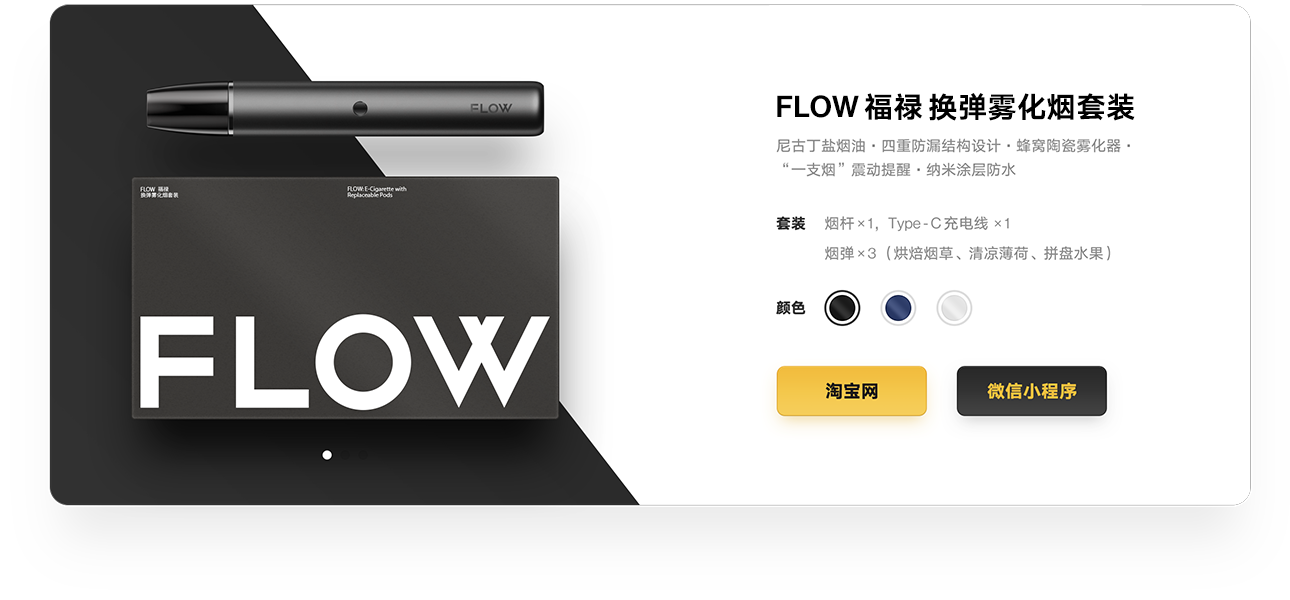
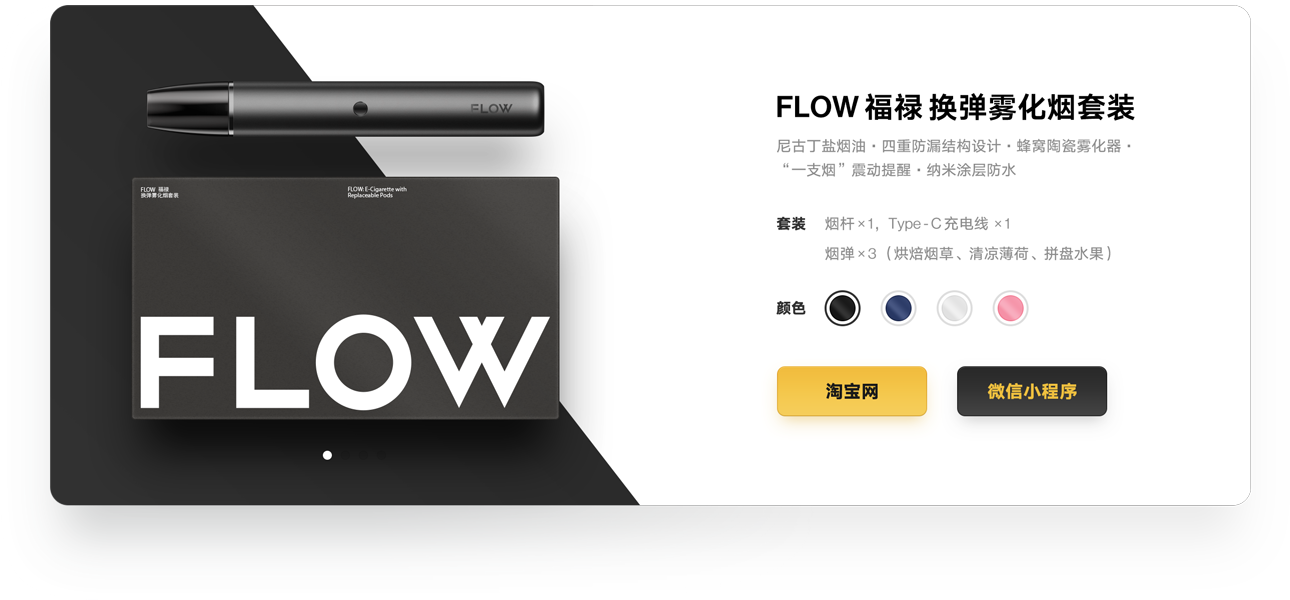
update: specs & item button link.

diff --git a/pages/shop.vue b/pages/shop.vue
@@ -3,7 +3,7 @@
         <div class="shop-banner-container">
             <div class="shop-banner">
                 <div class="shop-banner-btn">
-                    <a class="btn-1" target="_blank" href="https://item.taobao.com/item.htm?spm=a1z10.1-c-s.w4004-21283948660.2.4bb57afaMLmV8H&id=586143386583"></a>
+                    <a class="btn-1" target="_blank" href="https://item.taobao.com/item.htm?spm=a2oq0.12575281.0.0.25911deblYfbnz&ft=t&id=590862990609"></a>
                     <a class="btn-2" @click="showQRCode('qrCode1', $event)"></a>
                 </div>
                 <div class="qr-code" :class="{'qr-code-anim': qrcodeName == 'qrCode1'}"></div>
@@ -13,12 +13,13 @@
             <a class="blue-btn" @click="changeColor('blue')"></a>
             <a class="black-btn" @click="changeColor('black')"></a>
             <a class="white-btn" @click="changeColor('white')"></a>
-            <a class="taobao-btn" target="_blank" href="https://item.taobao.com/item.htm?spm=a1z10.1-c-s.w4004-21283948660.2.4bb57afaMLmV8H&id=586143386583"></a>
+            <a class="pink-btn" @click="changeColor('pink')"></a>
+            <a class="taobao-btn" target="_blank" href="https://item.taobao.com/item.htm?spm=a2oq0.12575281.0.0.25911deblYfbnz&ft=t&id=590862990609"></a>
             <a class="mini-program-btn" @click="showQRCode('qrCode2', $event)"></a>
             <div class="qr-code" :class="{'qr-code-anim': qrcodeName == 'qrCode2'}"></div>
         </div>
         <div class="shop-colors">
-            <a class="taobao-btn" target="_blank" href="https://item.taobao.com/item.htm?spm=a1z10.1-c-s.w4004-21283948660.2.4bb57afaMLmV8H&id=586143386583"></a>
+            <a class="taobao-btn" target="_blank" href="https://item.taobao.com/item.htm?spm=a2oq0.12575281.0.0.25911deblYfbnz&ft=t&id=590862990609"></a>
             <a class="mini-program-btn" @click="showQRCode('qrCode3', $event)"></a>
             <div class="qr-code" :class="{'qr-code-anim': qrcodeName == 'qrCode3'}"></div>
         </div>
@@ -143,6 +144,10 @@ export default {
         background-image: url(~assets/images/shop-box-white.png);
         background-image: -webkit-image-set(url(~assets/images/shop-box-white.png) 1x,url(~assets/images/shop-box-white@2x.png) 2x);
     }
+    &.pink {
+        background-image: url(~assets/images/shop-box-pink.png);
+        background-image: -webkit-image-set(url(~assets/images/shop-box-pink.png) 1x,url(~assets/images/shop-box-pink@2x.png) 2x);
+    }
     .black-btn {
         position: absolute;
         content: "";
@@ -168,6 +173,15 @@ export default {
         height: 38px;
         border-radius: 50%;
         right: 316px;
+        top: 290px;
+    }
+    .pink-btn {
+        position: absolute;
+        content: "";
+        width: 38px;
+        height: 38px;
+        border-radius: 50%;
+        right: 260px;
         top: 290px;
     }
     .taobao-btn {
@@ -208,32 +222,32 @@ export default {
 
 .shop-colors {
     position: relative;
-    width: 1515px;
+    width: 1273px;
     height: 670px;
     margin: 0 auto;
     background-repeat: no-repeat;
     background-position: center;
-    background-size: cover;
+    background-size: contain;
     background-image: url(~assets/images/shop-category.png);
     background-image: -webkit-image-set(url(~assets/images/shop-category.png) 1x,url(~assets/images/shop-category@2x.png) 2x);
     .taobao-btn {
         position: absolute;
         content: "";
-        width: 122px;
+        width: 110px;
         height: 22px;
-        top: 134px;
+        top: 164px;
         left: 0;
-        right: 162px;
+        right: 140px;
         margin: 0 auto;
     }
     .mini-program-btn {
         position: absolute;
         content: "";
-        width: 156px;
+        width: 134px;
         height: 22px;
-        top: 134px;
+        top: 164px;
         left: 0;
-        right: -186px;
+        right: -160px;
         margin: 0 auto;
     }
     .qr-code {
@@ -244,8 +258,8 @@ export default {
         opacity: 0;
         border-radius: 16px;
         border: 1px solid #e8e5e5;
-        top: 170px;
-        right: 406px;
+        top: 200px;
+        right: 420px;
         z-index: 5;
         background-size: cover;
         background-image: url(~assets/images/mini-program.jpg);

diff --git a/pages/index.vue b/pages/index.vue
@@ -6,8 +6,8 @@
       <div class="text-container">
         <span class="text"></span>
         <div class="banner-btn">
-          <a class="btn-1" target="_blank" href="https://item.taobao.com/item.htm?spm=a1z10.1-c-s.w4004-21283948660.2.4bb57afaMLmV8H&id=586143386583"></a>
-          <a class="btn-2" target="_blank" href="https://item.taobao.com/item.htm?spm=a1z10.1-c-s.w4004-21283948660.4.4bb57afaMLmV8H&id=586638905206"></a>
+          <a class="btn-1" target="_blank" href="https://item.taobao.com/item.htm?spm=a2oq0.12575281.0.0.25911deblYfbnz&ft=t&id=590862990609"></a>
+          <a class="btn-2" target="_blank" href="https://item.taobao.com/item.htm?spm=a2oq0.12575281.0.0.25911deblYfbnz&ft=t&id=590715241618"></a>
         </div>
       </div>
     </div>
